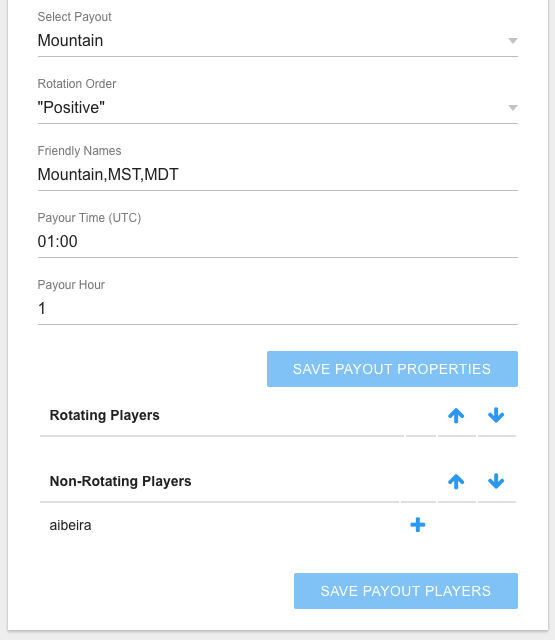
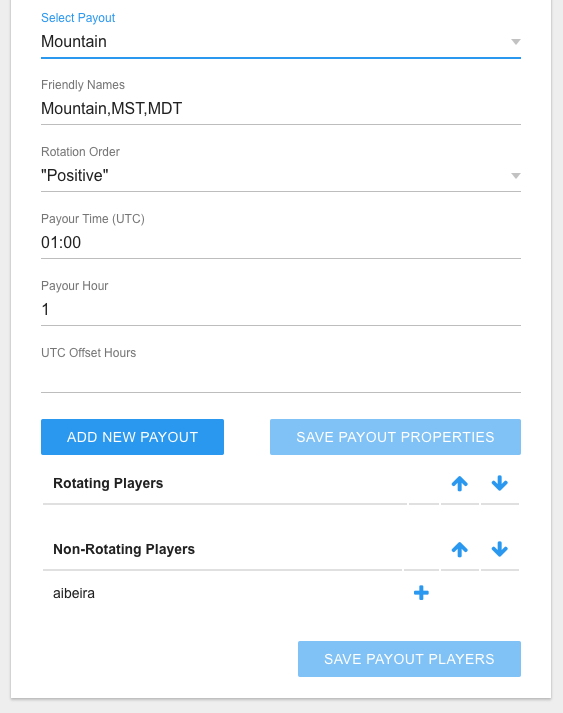
updated admin guide

diff --git a/admin-guide.md b/admin-guide.md
@@ -49,7 +49,7 @@ The following fields are required:
  
 * **Name** - The player's in-game and/or Discord name.
 * **Type** - The player's type - Friend or Enemy
-* **Payout Time (UTC)** - The time of the player's payout in the UTC time, and in format "HH:mm".  For example, 01:00 is 1:00am UTC, or 9:00pm EDT.  
+* **Payout Time (UTC)** - The time of the player's payout in the UTC time, and in format "HH:mm" - 24-hour time in the UTC time zone (*no "am/pm" or time-zone should be specified*).  For example, 01:00 is 1:00am UTC, or 9:00pm EDT.   
 * **Payout Hour** - The hour component of the player's payout time.  This field will eventually be removed, as it can be derived, but for now, just enter the number of the hour you just put in the payout time UTC.
 
 The other fields are optional.
@@ -60,21 +60,7 @@ The other fields are optional.
 * **Discord Emoji** - A Discord Emoji that will be displayed in Discord next to the players name.  It should include the leading and trailing colon (:).  For example ":flag_us:" is the emoji for the US flag and ":poop:" makes a nice emoji to be next to an enemy.
 
 ## Payouts
-Payouts can only be created from Discord commands at this time.  This command will add a payout:
-
-`;epo --add --payoutHour <payoutHour> --payoutTimeUTC <payoutTimeUTC> --friendlyNames <friendly-names-list> --rotationOrder 1`
-
-* `<payoutTimeUTC>` - The payout time in UTC - ie, 01:00
-* `<payoutHour>` - The hour component of the payout time - ie, 1
-* `<friendly-names-list>` - A comma-separated list of friendly names used to refer to this payout.  If you have specific channels set up for specific payouts, you can use the name of those channels as friendly-names for the corresponding payouts.  This will allow shard-bot to guess at which payout to list based on the channel name, if no friendly-name is specified when the `;po` command is used.
-
-**Note:** The value of the `payoutHour` is what links the players to the payouts.
-
-For example, the following added a payout for 01:00 UTC (7:00pm MDT) with a few friendly names:
-
-![Image](images/payout_hour_added.png)
-
-After adding payouts, you can manage them in the admin page.  You can add players to rotation, reorder the rotation, reverse the order in which rotations rotates, and cycle the rotation.  This page is accessed by clicking the "Payouts" link from the main admin page after logging in:
+Payouts can be managed in the admin page.  You can add payouts and edit payouts, including adding players to rotation, reorder the rotation, reverse the order in which rotations rotates, and cycle the rotation.  This page is accessed by clicking the "Payouts" link from the main admin page after logging in:
 
 ![Image](images/admin_page_main.png)
 
